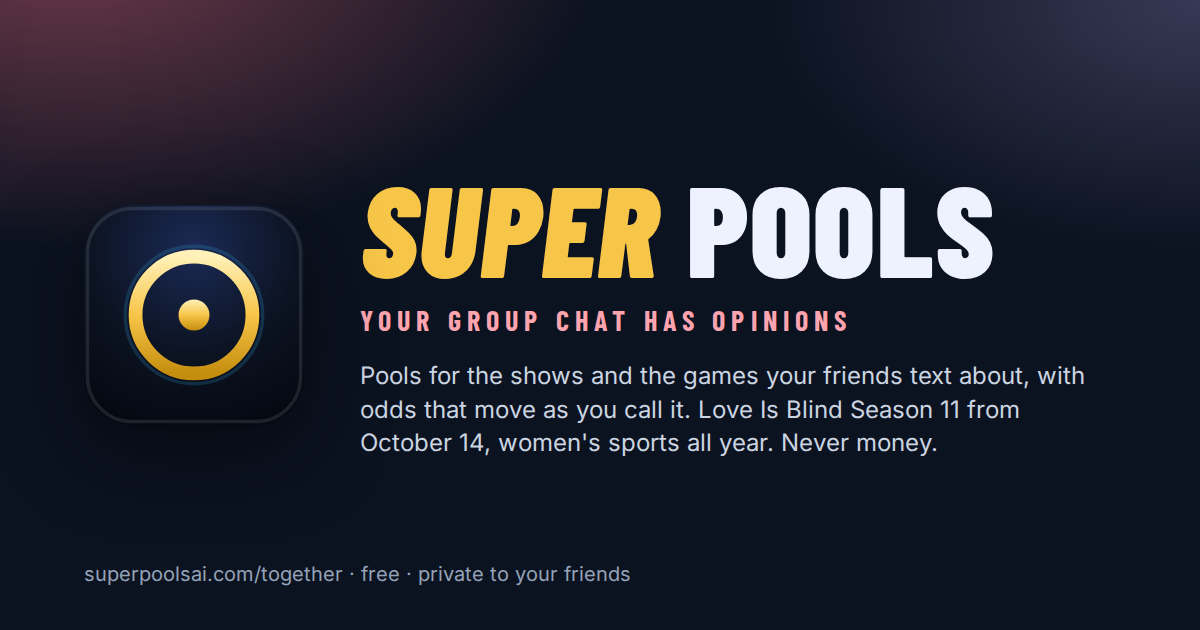
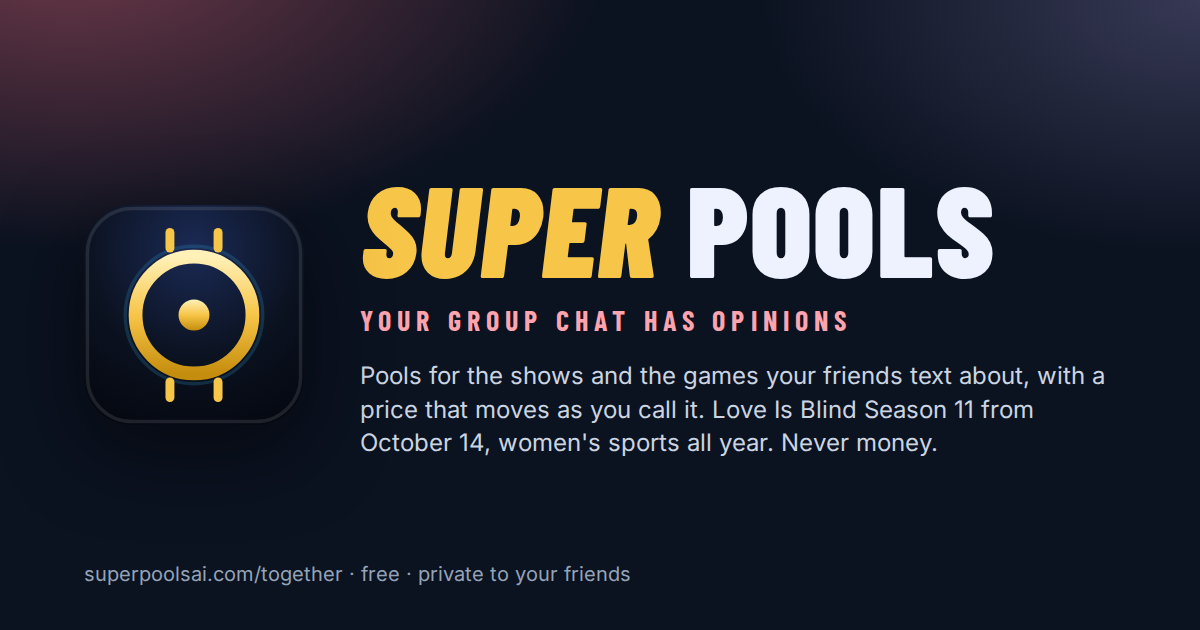
Pre-launch sweep fixes: share pictures, matching chances, Start form line
From the signed-out browser sweep of the public pages:
- the landing's share picture said "private beta" and "side bets"; it now
  says what Super Pools is, and every landing card draws the mark's ticks (a
  gradient stroke on a straight line drew nothing)
- a fan zone's link preview runs the same number of seasons as the page, so
  the preview and the page give the same Cup and playoff chances
- a link's text counts the fans only from ten up
- the Start your league form says what the name and email are for, with
  Privacy and Terms
- a page whose code fails to load reloads the app once instead of going blank
- the landing footer's "NHL fan zones" is "Fan zones"
- the readiness doc keeps the open items short, the repository being public

Claude-Session: https://claude.ai/code/session_01Hp9VkTQfXe9iCuWbtJF6dH

diff --git a/worker/fans.ts b/worker/fans.ts
@@ -34,6 +34,9 @@ const PAGES = ['analysis', 'outlook', 'history', 'pulse'];
 const PAGE_WORD: Record<Page, string> = { '': 'fan zone', analysis: 'the analysis', outlook: 'the outlook', history: 'the history', pulse: 'fan pulse' };
 
 const known = (c: string) => c === 'NHL' || !!CLUB_NAMES[c];
+// a link's text names how many fans have had their say once there are enough to say it proudly (the pre-launch review:
+// "1 fan has their say" is no reason to tap); the pictures and the pulse page still count every one
+const crowd = (p: { people?: number } | null | undefined) => (p?.people ?? 0) >= 10;
 const nameOf = (c: string) => (c === 'NHL' ? 'The NHL' : CLUB_NAMES[c] ?? c);
 const pct = (v: number) => (v >= 0.995 ? '>99%' : v > 0 && v < 0.005 ? '<1%' : `${Math.round(v * 100)}%`);
 const pulseOf = (env: Env, club: string, league = 'nhl') => rpc<Pulse>(env, 'fan_pulse', { p_club: club, p_league: league }).catch(() => null);
@@ -101,7 +104,7 @@ interface NhlRead { d: FanData; a: ReturnType<typeof assess>; out: Outlook | nul
 async function nhlRead(origin: string, env: Env, ctx: ExecutionContext, club: string): Promise<NhlRead | null> {
   const d = await hubData<FanData>(origin, env, ctx, { task: 'fan', abbrev: club });
   if (!d?.standing) return null;
-  return remember(`nhl:${club}:${d.at}`, () => ({ d, a: assess(d), out: outlook(d, 1500) }));
+  return remember(`nhl:${club}:${d.at}`, () => ({ d, a: assess(d), out: outlook(d, 3000) }));
 }
 const nhlRecord = (r: NhlRead | null) => (r?.d.standing ? `${r.d.standing.w}-${r.d.standing.l}-${r.d.standing.otl} · ${r.d.standing.pts} pts` : '');
 const nhlHist = (origin: string, env: Env, ctx: ExecutionContext, club: string) => hubData<FanHistory>(origin, env, ctx, { task: 'fan-history', abbrev: club });
@@ -146,12 +149,12 @@ export async function fansPage(rest: string, url: URL, env: Env, ctx: ExecutionC
   if (pg === 'pulse') {
     return page({
       title: `${name} fan pulse`,
-      description: p?.people ? `What ${p.people} fan${p.people === 1 ? '' : 's'} think${said ? `: ${said}` : ''}. Every call, the top ideas and questions, open to everyone.` : `What ${name} fans think: every call, the top ideas and questions, open to everyone. Be the first to have your say.`,
+      description: crowd(p) ? `What ${p!.people} fan${p!.people === 1 ? '' : 's'} think${said ? `: ${said}` : ''}. Every call, the top ideas and questions, open to everyone.` : `What ${name} fans think: every call, the top ideas and questions, open to everyone. Be the first to have your say.`,
       image: img(`${p?.people ?? 0}|${said ?? ''}`), url: url.href, go, color: theme.primary,
     });
   }
   if (club === 'NHL') {
-    return page({ title: 'NHL fan zones', description: `Every NHL club read like a front office: the playoff chances, the numbers, the crease and the moves. ${p?.people ? `${p.people} fan${p.people === 1 ? ' has' : 's have'} their say.` : 'Make your calls, post your ideas and vote.'}`,
+    return page({ title: 'NHL fan zones', description: `Every NHL club read like a front office: the playoff chances, the numbers, the crease and the moves. ${crowd(p) ? `${p!.people} fan${p!.people === 1 ? ' has' : 's have'} their say.` : 'Make your calls, post your ideas and vote.'}`,
       image: img(`${p?.people ?? 0}`), url: url.href, go, color: theme.primary });
   }
   // the page's own numbers, for the words and the picture
@@ -179,7 +182,7 @@ export async function fansPage(rest: string, url: URL, env: Env, ctx: ExecutionC
   }
   return page({
     title: `${name} fan zone`,
-    description: `${r?.a ? `Grade ${r.a.grade}, ${rec}${r.out ? `, ${pct(r.out.playoffs)} to make the playoffs` : ''}. ` : ''}The ${name}, read like a front office: the playoff chances, the numbers, the crease and the moves. ${p?.people ? `${p.people} fan${p.people === 1 ? ' has' : 's have'} their say${said ? `: ${said}` : ''}.` : 'Make your calls, post your ideas and vote.'}`,
+    description: `${r?.a ? `Grade ${r.a.grade}, ${rec}${r.out ? `, ${pct(r.out.playoffs)} to make the playoffs` : ''}. ` : ''}The ${name}, read like a front office: the playoff chances, the numbers, the crease and the moves. ${crowd(p) ? `${p!.people} fan${p!.people === 1 ? ' has' : 's have'} their say${said ? `: ${said}` : ''}.` : 'Make your calls, post your ideas and vote.'}`,
     image: img(`${rec}|${r?.a?.grade ?? ''}|${r?.out ? r.out.playoffs.toFixed(3) : ''}|${p?.people ?? 0}|${said ?? ''}`), url: url.href, go, color: theme.primary,
   });
 }
@@ -385,7 +388,7 @@ interface SportLeagueRead { l: SportLeague; tb: ReturnType<typeof table>; out: R
 async function sportLeagueRead(origin: string, env: Env, ctx: ExecutionContext, league: string): Promise<SportLeagueRead | null> {
   const l = await hubData<SportLeague>(origin, env, ctx, { task: 'fan-sport-league', league });
   if (!l?.clubs?.length) return null;
-  return remember(`sport:${league}:${l.at}`, () => ({ l, tb: table(l), out: sportOutlook(l, 1200) }));
+  return remember(`sport:${league}:${l.at}`, () => ({ l, tb: table(l), out: sportOutlook(l, l.sport === 'basketball' ? 2000 : 3000) }));
 }
 const sportHist = (origin: string, env: Env, ctx: ExecutionContext, league: string) => hubData<SportHistory>(origin, env, ctx, { task: 'fan-sport-history', league });
 const recordOf = (sport: string, r: SportLeague['clubs'][number]) => (sport === 'soccer' ? `${r.pts ?? 0} pts · ${rankWord(r.seed ?? 0)}` : `${r.w}-${r.l}${r.d ? `-${r.d}` : ''}`);
@@ -425,7 +428,7 @@ async function sportPage(sp: SportPlace, url: URL, env: Env, ctx: ExecutionConte
   if (sp.page === 'pulse') {
     return page({
       title: `${sp.club ? name : sp.league.name} fan pulse`,
-      description: p?.people ? `What ${p.people} fan${p.people === 1 ? '' : 's'} think${said ? `: ${said}` : ''}. Every call, the top ideas and questions, open to everyone.` : `What the fans think: every call, the top ideas and questions, open to everyone. Be the first to have your say.`,
+      description: crowd(p) ? `What ${p!.people} fan${p!.people === 1 ? '' : 's'} think${said ? `: ${said}` : ''}. Every call, the top ideas and questions, open to everyone.` : `What the fans think: every call, the top ideas and questions, open to everyone. Be the first to have your say.`,
       image: img(`${p?.people ?? 0}|${said ?? ''}`), url: url.href, go, color: theme.primary,
     });
   }
@@ -460,7 +463,7 @@ async function sportPage(sp: SportPlace, url: URL, env: Env, ctx: ExecutionConte
   }
   return page({
     title: `${name} fan zone`,
-    description: `${a ? `Grade ${a.grade}, ${rec}${ch ? (soccer ? `, ${pct(ch.top4)} top four` : `, ${pct(ch.playoffs)} to make the playoffs`) : ''}. ` : ''}The ${name}, read like a front office: the chances, the numbers, the players and the moves. ${p?.people ? `${p.people} fan${p.people === 1 ? ' has' : 's have'} their say${said ? `: ${said}` : ''}.` : 'Make your calls, post your ideas and vote.'}`,
+    description: `${a ? `Grade ${a.grade}, ${rec}${ch ? (soccer ? `, ${pct(ch.top4)} top four` : `, ${pct(ch.playoffs)} to make the playoffs`) : ''}. ` : ''}The ${name}, read like a front office: the chances, the numbers, the players and the moves. ${crowd(p) ? `${p!.people} fan${p!.people === 1 ? ' has' : 's have'} their say${said ? `: ${said}` : ''}.` : 'Make your calls, post your ideas and vote.'}`,
     image: img(`${rec}|${a?.grade ?? ''}|${ch ? (soccer ? ch.top4 : ch.playoffs).toFixed(3) : ''}|${p?.people ?? 0}|${said ?? ''}`), url: url.href, go, color: theme.primary,
   });
 }

diff --git a/landing/og.html b/landing/og.html
@@ -16,11 +16,11 @@
   .foot { position: absolute; left: 84px; bottom: 44px; font-size: 20px; color: #94a3b8; }
 </style></head>
 <body>
-  <svg class="mark" viewBox="0 0 64 64"><defs><radialGradient id="bg" cx="50%" cy="20%" r="90%"><stop offset="0" stop-color="#1b2a55"/><stop offset=".55" stop-color="#0b1220"/><stop offset="1" stop-color="#04070f"/></radialGradient><linearGradient id="gold" x1="0" y1="0" x2="0" y2="1"><stop offset="0" stop-color="#fff1b8"/><stop offset=".5" stop-color="#f7c548"/><stop offset="1" stop-color="#c58d0e"/></linearGradient></defs><rect width="64" height="64" rx="14" fill="url(#bg)"/><rect x="1" y="1" width="62" height="62" rx="13" fill="none" stroke="#fff" stroke-opacity=".1"/><circle cx="32" cy="32" r="20" fill="none" stroke="#38bdf8" stroke-opacity=".18" stroke-width="1"/><circle cx="32" cy="32" r="17" fill="none" stroke="url(#gold)" stroke-width="4"/><circle cx="32" cy="32" r="4.5" fill="url(#gold)"/><g stroke="url(#gold)" stroke-width="2.6" stroke-linecap="round"><line x1="25" y1="8" x2="25" y2="12.5"/><line x1="39" y1="8" x2="39" y2="12.5"/><line x1="25" y1="51.5" x2="25" y2="56"/><line x1="39" y1="51.5" x2="39" y2="56"/></g></svg>
+  <svg class="mark" viewBox="0 0 64 64"><defs><radialGradient id="bg" cx="50%" cy="20%" r="90%"><stop offset="0" stop-color="#1b2a55"/><stop offset=".55" stop-color="#0b1220"/><stop offset="1" stop-color="#04070f"/></radialGradient><linearGradient id="gold" x1="0" y1="0" x2="0" y2="1"><stop offset="0" stop-color="#fff1b8"/><stop offset=".5" stop-color="#f7c548"/><stop offset="1" stop-color="#c58d0e"/></linearGradient></defs><rect width="64" height="64" rx="14" fill="url(#bg)"/><rect x="1" y="1" width="62" height="62" rx="13" fill="none" stroke="#fff" stroke-opacity=".1"/><circle cx="32" cy="32" r="20" fill="none" stroke="#38bdf8" stroke-opacity=".18" stroke-width="1"/><circle cx="32" cy="32" r="17" fill="none" stroke="url(#gold)" stroke-width="4"/><circle cx="32" cy="32" r="4.5" fill="url(#gold)"/><g stroke="#f7c548" stroke-width="2.6" stroke-linecap="round"><line x1="25" y1="8" x2="25" y2="12.5"/><line x1="39" y1="8" x2="39" y2="12.5"/><line x1="25" y1="51.5" x2="25" y2="56"/><line x1="39" y1="51.5" x2="39" y2="56"/></g></svg>
   <div>
     <div class="word"><b>SUPER</b> POOLS</div>
     <div class="tag">Fantasy pools from the future</div>
-    <div class="sub">Fun fantasy pools with friends, for all. AI-enhanced lineups, recaps and trade grades, live scoring from the box scores and side challenges in Supercoins. Fun for all, never money.</div>
+    <div class="sub">Fantasy leagues and prediction pools for any group: the NHL, NFL, NBA, MLB, soccer and the shows you argue about. Live scoring, a voice for every pool and a fan zone for every club. Played in Supercoins: fun for all, never money.</div>
   </div>
-  <div class="foot">superpoolsai.com · built by a hockey pool since 2013 · NHL 2026-27 · private beta</div>
+  <div class="foot">superpoolsai.com · built by a hockey pool since 2013 · free to play</div>
 </body></html>

diff --git a/landing/og-love-is-blind.html b/landing/og-love-is-blind.html
@@ -16,7 +16,7 @@
   .foot { position: absolute; left: 84px; bottom: 44px; font-size: 20px; color: #94a3b8; }
 </style></head>
 <body>
-  <svg class="mark" viewBox="0 0 64 64"><defs><radialGradient id="bg" cx="50%" cy="20%" r="90%"><stop offset="0" stop-color="#1b2a55"/><stop offset=".55" stop-color="#0b1220"/><stop offset="1" stop-color="#04070f"/></radialGradient><linearGradient id="gold" x1="0" y1="0" x2="0" y2="1"><stop offset="0" stop-color="#fff1b8"/><stop offset=".5" stop-color="#f7c548"/><stop offset="1" stop-color="#c58d0e"/></linearGradient></defs><rect width="64" height="64" rx="14" fill="url(#bg)"/><rect x="1" y="1" width="62" height="62" rx="13" fill="none" stroke="#fff" stroke-opacity=".1"/><circle cx="32" cy="32" r="20" fill="none" stroke="#38bdf8" stroke-opacity=".18" stroke-width="1"/><circle cx="32" cy="32" r="17" fill="none" stroke="url(#gold)" stroke-width="4"/><circle cx="32" cy="32" r="4.5" fill="url(#gold)"/><g stroke="url(#gold)" stroke-width="2.6" stroke-linecap="round"><line x1="25" y1="8" x2="25" y2="12.5"/><line x1="39" y1="8" x2="39" y2="12.5"/><line x1="25" y1="51.5" x2="25" y2="56"/><line x1="39" y1="51.5" x2="39" y2="56"/></g></svg>
+  <svg class="mark" viewBox="0 0 64 64"><defs><radialGradient id="bg" cx="50%" cy="20%" r="90%"><stop offset="0" stop-color="#1b2a55"/><stop offset=".55" stop-color="#0b1220"/><stop offset="1" stop-color="#04070f"/></radialGradient><linearGradient id="gold" x1="0" y1="0" x2="0" y2="1"><stop offset="0" stop-color="#fff1b8"/><stop offset=".5" stop-color="#f7c548"/><stop offset="1" stop-color="#c58d0e"/></linearGradient></defs><rect width="64" height="64" rx="14" fill="url(#bg)"/><rect x="1" y="1" width="62" height="62" rx="13" fill="none" stroke="#fff" stroke-opacity=".1"/><circle cx="32" cy="32" r="20" fill="none" stroke="#38bdf8" stroke-opacity=".18" stroke-width="1"/><circle cx="32" cy="32" r="17" fill="none" stroke="url(#gold)" stroke-width="4"/><circle cx="32" cy="32" r="4.5" fill="url(#gold)"/><g stroke="#f7c548" stroke-width="2.6" stroke-linecap="round"><line x1="25" y1="8" x2="25" y2="12.5"/><line x1="39" y1="8" x2="39" y2="12.5"/><line x1="25" y1="51.5" x2="25" y2="56"/><line x1="39" y1="51.5" x2="39" y2="56"/></g></svg>
   <div>
     <div class="word"><b>SUPER</b> POOLS</div>
     <div class="tag">Love Is Blind · Season 11 pool</div>

diff --git a/landing/og-together.html b/landing/og-together.html
@@ -16,7 +16,7 @@
   .foot { position: absolute; left: 84px; bottom: 44px; font-size: 20px; color: #94a3b8; }
 </style></head>
 <body>
-  <svg class="mark" viewBox="0 0 64 64"><defs><radialGradient id="bg" cx="50%" cy="20%" r="90%"><stop offset="0" stop-color="#1b2a55"/><stop offset=".55" stop-color="#0b1220"/><stop offset="1" stop-color="#04070f"/></radialGradient><linearGradient id="gold" x1="0" y1="0" x2="0" y2="1"><stop offset="0" stop-color="#fff1b8"/><stop offset=".5" stop-color="#f7c548"/><stop offset="1" stop-color="#c58d0e"/></linearGradient></defs><rect width="64" height="64" rx="14" fill="url(#bg)"/><rect x="1" y="1" width="62" height="62" rx="13" fill="none" stroke="#fff" stroke-opacity=".1"/><circle cx="32" cy="32" r="20" fill="none" stroke="#38bdf8" stroke-opacity=".18" stroke-width="1"/><circle cx="32" cy="32" r="17" fill="none" stroke="url(#gold)" stroke-width="4"/><circle cx="32" cy="32" r="4.5" fill="url(#gold)"/><g stroke="url(#gold)" stroke-width="2.6" stroke-linecap="round"><line x1="25" y1="8" x2="25" y2="12.5"/><line x1="39" y1="8" x2="39" y2="12.5"/><line x1="25" y1="51.5" x2="25" y2="56"/><line x1="39" y1="51.5" x2="39" y2="56"/></g></svg>
+  <svg class="mark" viewBox="0 0 64 64"><defs><radialGradient id="bg" cx="50%" cy="20%" r="90%"><stop offset="0" stop-color="#1b2a55"/><stop offset=".55" stop-color="#0b1220"/><stop offset="1" stop-color="#04070f"/></radialGradient><linearGradient id="gold" x1="0" y1="0" x2="0" y2="1"><stop offset="0" stop-color="#fff1b8"/><stop offset=".5" stop-color="#f7c548"/><stop offset="1" stop-color="#c58d0e"/></linearGradient></defs><rect width="64" height="64" rx="14" fill="url(#bg)"/><rect x="1" y="1" width="62" height="62" rx="13" fill="none" stroke="#fff" stroke-opacity=".1"/><circle cx="32" cy="32" r="20" fill="none" stroke="#38bdf8" stroke-opacity=".18" stroke-width="1"/><circle cx="32" cy="32" r="17" fill="none" stroke="url(#gold)" stroke-width="4"/><circle cx="32" cy="32" r="4.5" fill="url(#gold)"/><g stroke="#f7c548" stroke-width="2.6" stroke-linecap="round"><line x1="25" y1="8" x2="25" y2="12.5"/><line x1="39" y1="8" x2="39" y2="12.5"/><line x1="25" y1="51.5" x2="25" y2="56"/><line x1="39" y1="51.5" x2="39" y2="56"/></g></svg>
   <div>
     <div class="word"><b>SUPER</b> POOLS</div>
     <div class="tag">Your group chat has opinions</div>

diff --git a/landing/og-world-series.html b/landing/og-world-series.html
@@ -16,7 +16,7 @@
   .foot { position: absolute; left: 84px; bottom: 44px; font-size: 20px; color: #94a3b8; }
 </style></head>
 <body>
-  <svg class="mark" viewBox="0 0 64 64"><defs><radialGradient id="bg" cx="50%" cy="20%" r="90%"><stop offset="0" stop-color="#1b2a55"/><stop offset=".55" stop-color="#0b1220"/><stop offset="1" stop-color="#04070f"/></radialGradient><linearGradient id="gold" x1="0" y1="0" x2="0" y2="1"><stop offset="0" stop-color="#fff1b8"/><stop offset=".5" stop-color="#f7c548"/><stop offset="1" stop-color="#c58d0e"/></linearGradient></defs><rect width="64" height="64" rx="14" fill="url(#bg)"/><rect x="1" y="1" width="62" height="62" rx="13" fill="none" stroke="#fff" stroke-opacity=".1"/><circle cx="32" cy="32" r="20" fill="none" stroke="#38bdf8" stroke-opacity=".18" stroke-width="1"/><circle cx="32" cy="32" r="17" fill="none" stroke="url(#gold)" stroke-width="4"/><circle cx="32" cy="32" r="4.5" fill="url(#gold)"/><g stroke="url(#gold)" stroke-width="2.6" stroke-linecap="round"><line x1="25" y1="8" x2="25" y2="12.5"/><line x1="39" y1="8" x2="39" y2="12.5"/><line x1="25" y1="51.5" x2="25" y2="56"/><line x1="39" y1="51.5" x2="39" y2="56"/></g></svg>
+  <svg class="mark" viewBox="0 0 64 64"><defs><radialGradient id="bg" cx="50%" cy="20%" r="90%"><stop offset="0" stop-color="#1b2a55"/><stop offset=".55" stop-color="#0b1220"/><stop offset="1" stop-color="#04070f"/></radialGradient><linearGradient id="gold" x1="0" y1="0" x2="0" y2="1"><stop offset="0" stop-color="#fff1b8"/><stop offset=".5" stop-color="#f7c548"/><stop offset="1" stop-color="#c58d0e"/></linearGradient></defs><rect width="64" height="64" rx="14" fill="url(#bg)"/><rect x="1" y="1" width="62" height="62" rx="13" fill="none" stroke="#fff" stroke-opacity=".1"/><circle cx="32" cy="32" r="20" fill="none" stroke="#38bdf8" stroke-opacity=".18" stroke-width="1"/><circle cx="32" cy="32" r="17" fill="none" stroke="url(#gold)" stroke-width="4"/><circle cx="32" cy="32" r="4.5" fill="url(#gold)"/><g stroke="#f7c548" stroke-width="2.6" stroke-linecap="round"><line x1="25" y1="8" x2="25" y2="12.5"/><line x1="39" y1="8" x2="39" y2="12.5"/><line x1="25" y1="51.5" x2="25" y2="56"/><line x1="39" y1="51.5" x2="39" y2="56"/></g></svg>
   <div>
     <div class="word"><b>SUPER</b> POOLS</div>
     <div class="tag">The 2026 World Series pool</div>

diff --git a/landing/index.html b/landing/index.html
@@ -545,7 +545,7 @@
 
     <footer>
       <span>© 2026 Super Pools · superpoolsai.com · not affiliated with the NHL, Netflix or any league</span>
-      <nav><a href="./world-series-pools">World Series pools</a><a href="./football-pools">NFL pools</a><a href="./basketball-pools">NBA pools</a><a href="./hockey-pools">NHL pools</a><a href="./fans">NHL fan zones</a><a href="./together">Pools for any group</a><a href="https://app.superpoolsai.com/#/privacy">Privacy</a><a href="https://app.superpoolsai.com/#/terms">Terms</a><a href="#" data-cookie-settings>Cookie settings</a><a href="mailto:hello@superpoolsai.com">hello@superpoolsai.com</a></nav>
+      <nav><a href="./world-series-pools">World Series pools</a><a href="./football-pools">NFL pools</a><a href="./basketball-pools">NBA pools</a><a href="./hockey-pools">NHL pools</a><a href="./fans">Fan zones</a><a href="./together">Pools for any group</a><a href="https://app.superpoolsai.com/#/privacy">Privacy</a><a href="https://app.superpoolsai.com/#/terms">Terms</a><a href="#" data-cookie-settings>Cookie settings</a><a href="mailto:hello@superpoolsai.com">hello@superpoolsai.com</a></nav>
     </footer>
   </main>
   <script src="./site.js"></script>

diff --git a/src/pages/Start.tsx b/src/pages/Start.tsx
@@ -83,6 +83,7 @@ export default function Start() {
                 <label className="block"><span className="label text-white/70">Anything we should know</span>
                   <textarea className="input mt-1 min-h-20 text-sm" maxLength={1000} value={f.note} onChange={(e) => setF({ ...f, note: e.target.value })} placeholder="Keepers, how many seasons you’ve run, when you draft…" /></label>
                 <button className="btn-gold w-full py-3 text-base" disabled={busy || !ok}>{busy ? <Spinner /> : '✨ Ask for my league'}</button>
+                <p className="text-center text-[11px] leading-snug text-white/50">We use your name and email only to set up your league and write back. <a href="#/privacy" className="underline">Privacy</a> · <a href="#/terms" className="underline">Terms</a></p>
               </div>
             </form>
             {err && <div className="mt-4 rounded-xl border border-red-400/30 bg-red-900/50 px-4 py-3 text-center text-sm text-red-200">{err}</div>}

diff --git a/src/main.tsx b/src/main.tsx
@@ -211,6 +211,18 @@ function App() {
   );
 }
 
+// a page's code that fails to download (a new deploy replaced it, or the connection dropped) reloads the app once
+// rather than leaving a blank screen; a second failure inside a minute shows the error as before (28 October 2026)
+window.addEventListener('vite:preloadError', (e) => {
+  try {
+    const last = Number(sessionStorage.getItem('sp-chunk-reload') ?? 0);
+    if (Date.now() - last < 60_000) return;
+    sessionStorage.setItem('sp-chunk-reload', String(Date.now()));
+  } catch { /* no storage: reload anyway, once per page load */ }
+  e.preventDefault();
+  window.location.reload();
+});
+
 createRoot(document.getElementById('root')!).render(
   <StrictMode>
     <HashRouter>

diff --git a/docs/LAUNCH-READINESS-2026-10-28.md b/docs/LAUNCH-READINESS-2026-10-28.md
@@ -34,6 +34,12 @@ its ranked list where they overlap.
 | Live rooms | At most 25 sockets waiting to say hello; a renewed token claiming more than two hours is refused |
 | Game-day run failing on ESPN | The injury refresh failing no longer fails the probable goalies and scratches |
 | "Add SAK to your Home Screen" | The iPhone push hint names the product |
+| Share pictures out of date | The landing's `og.png` said "private beta" and "side bets"; it now names what Super Pools is, and every landing card draws the mark's ticks (a gradient on a straight line drew nothing) |
+| Page and preview disagreeing | A fan zone's link preview runs the same 3,000 seasons as the page, so both say the same chances |
+| "1 fan has their say" | A link's text counts the fans only from ten up; the pictures and the pulse still count every one |
+| Start your league without a privacy line | The form says what the name and email are for, with Privacy and Terms |
+| A blank page when code fails to load | The app reloads once (a new deploy or a dropped connection) instead of showing nothing |
+| Footer "NHL fan zones" | "Fan zones": they cover four leagues |
 | No robots.txt or sitemap on the app | The Worker serves both: the fan zones (every club, every page, every league) for search engines, pools, invites and the API kept out; every superpoolsai.com address points at the app's |
 
 ## 3. For Patrick
@@ -49,11 +55,10 @@ its ranked list where they overlap.
    legal name behind Super Pools and the governing law, and whether a lawyer reads it before strangers arrive.
 3. **Check hello@superpoolsai.com reaches you.** The privacy note and the terms promise deletion and answers there; mail
    for superpoolsai.com goes through Cloudflare Email Routing. Send it a test from an outside address.
-4. **Decide on unconfirmed emails** (security review H1). Starting a pool or joining from an invite makes an account for
-   any email typed, confirmed on the spot. Someone could take another person's address first; the owner can still reset
-   the password (and now signs the squatter out), but person invites sent to that address land with the squatter until
-   then. Options: keep it (fastest door, small risk), or send a 6-digit code to the address before the account is made
-   (one more step for every stranger). Recommendation: the code, before any paid marketing.
+4. **Decide whether a new email is confirmed by a code** before its account is made (starting a pool, joining from an
+   invite). Today an address is taken at its word, which keeps the door one step shorter; a 6-digit code makes the address
+   provably the person's. The trade-off and the recommendation are in the session's report; recommended before any paid
+   marketing.
 5. **Archive the test pools and the shadow league** (status to archived, no data deleted): `sak-shadow` (league 2; the
    gate passed 11 October, it syncs every minute and its voice still posts), and the QA and TEST pools (leagues 9 to 13).
    Together they are a fifth of the voice's bill and show in the platform's counts. Say yes and it is one statement.
@@ -64,14 +69,13 @@ its ranked list where they overlap.
    Small (Settings → Compute) before sending traffic; switch Auth's connection strategy to a percentage at the same time.
 7. **Point-in-time recovery** (Settings → Add-ons): today a bad night loses up to a day. Worth it once strangers' pools
    hold weeks of calls.
-8. **Bot check on the open doors.** Name-only joins (300 a day in all), fan joins (1,000), the Start your league form
-   and the waitlist can be filled by a script. A Cloudflare Turnstile site key (free) lets them ask for a check; create
-   one for `app.superpoolsai.com` and `superpoolsai.com` and the wiring is a small change.
+8. **Bot check on the open doors** (name-only joins, fan joins, the Start your league form, the waitlist): a Cloudflare
+   Turnstile site key (free) for `app.superpoolsai.com` and `superpoolsai.com`, and the wiring is a small change.
 9. **Uptime alerts** from outside: a Cloudflare health check or UptimeRobot on `app.superpoolsai.com`,
    `superpoolsai.com` and nhl-hub, alerting your phone. The health check inside only bells you in the app.
 10. **Email reputation.** DMARC is `p=none`; once its reports show only Resend and Cloudflare, move it to
     `p=quarantine`. A CAA record (letsencrypt.org, pki.goog) is a nice extra.
-11. **Mission Control's passcode**: make it long and random (it is checked by an open function with no throttle).
+11. **Mission Control's passcode**: make it long and random.
 
 ### Housekeeping
 
@@ -82,6 +86,8 @@ its ranked list where they overlap.
 14. **Database SSL enforcement** (Settings → Database) and a minimum password length of 8 (Auth → Providers → Email):
     both optional, both safe.
 15. **`rosters_2526_backup`**: drop it once you're sure (destroys the copy; your yes).
+16. **The repository is public** (MIT since 25 October): the plan documents in `docs/` are public with it. No secrets are
+    in it (checked); if the plans should be private, move `docs/` to a private repository.
 
 ## 4. Left for later (not blocking)
 
